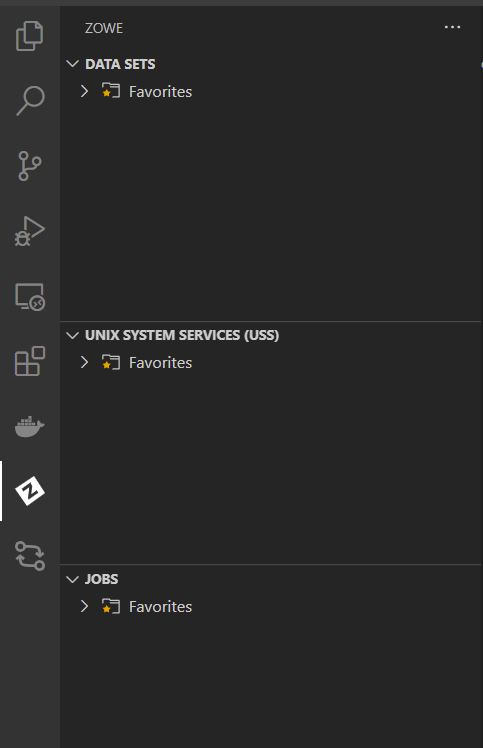
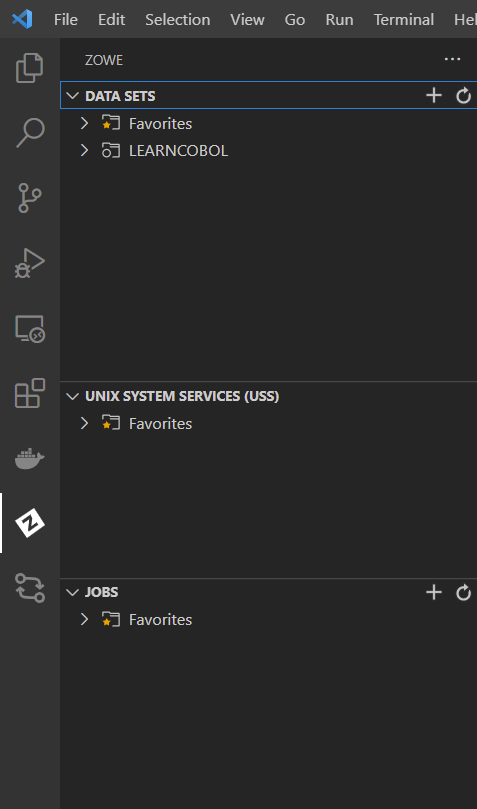
updating the create profile steps

diff --git a/COBOL Programming Course #1 - Getting Started/COBOL Programming Course #1 - Getting Started.md b/COBOL Programming Course #1 - Getting Started/COBOL Programming Course #1 - Getting Started.md
@@ -1485,21 +1485,22 @@ In this lab exercise you will connect to an IBM Z system, view a simple COBOL he
 
 
 
-13. Result is Favorites in the Data Sets, Unix System Services, and Jobs sections as shown in Figure  14.
+14. Your connection will be added automatically to the **DATASET** list under **Favorites** as shown in Figure  14.
 
-![](Images/image078.png)
+    ![](Images/image078.png)
 
-*Figure  14.  Favorites*
+*Figure  14.  LEARNCOBOL connection*
 
-14.  Again, click on the + to the far right on the Data Sets selection.  Result is another prompt to Create a New Connection to z/OS.  LearnCOBOL is in the connection list.  Select **LearnCOBOL** for the Data Sets available to the previously defined LearnCOBOL connection to z/OS as shown in Figure  15.
-
-![](Images/image080.png)
-
-*Figure  15.  LearnCOBOL connection*
+- Note : *if you click on the + to the far right on the Data Sets selection,  another prompt to Create a New Connection to z/OS will appear.*
+  - any other connections you have will be listed as shown in Figure  15.
+  
+  ![](Images/image080.png)
+  
+  *Figure  15.  connections list*
 
  
 
-15.  Expansion of LearnCOBOL reads “Use the search button to display datasets”.  Click the search button as shown in Figure  16.
+15. Expansion of LEARNCOBOL reads “Use the search button to display datasets”.  Click the search button as shown in Figure  16.
 
 ![](Images/image082.png)
 
@@ -1531,7 +1532,7 @@ In this lab exercise you will connect to an IBM Z system, view a simple COBOL he
 
  
 
-19.   A list of data set names beginning with your username from z/OS Connection LearnCOBOL appears as shown in Figure  20.
+19.   A list of data set names beginning with your username from z/OS Connection LEARNCOBOL appears as shown in Figure  20.
 
 ![](Images/image090.png)
 
@@ -1575,7 +1576,7 @@ In this lab exercise you will connect to an IBM Z system, view a simple COBOL he
 
 ![](Images/image100.png)
 
-*Figure  25.   +   Select LearnCOBOL connection*
+*Figure  25.   +   Select LEARNCOBOL connection*
 
  
 
@@ -1595,7 +1596,7 @@ In this lab exercise you will connect to an IBM Z system, view a simple COBOL he
 
  
 
-27.   View the COBOL program execution by selecting **COBRUN:SYSOUT(104)** from the LearnCOBOL in the Jobs section of Zowe Explorer as shown in Figure  28.
+27.   View the COBOL program execution by selecting **COBRUN:SYSOUT(104)** from the LEARNCOBOL in the Jobs section of Zowe Explorer as shown in Figure  28.
 
 ![](Images/image106.png)
 
@@ -1620,10 +1621,10 @@ In this section, we will use the Zowe CLI interactively to view data set members
 
 2. In order for Zowe CLI to interact with z/OSMF the CLI must know the connection details such as host, port, username, password, etc. While you could enter this information on each command, Zowe provides the ability to store this information in configurations commonly known as profiles. Zowe CLI and the Zowe VS Code Extension share profiles. So if you created a connection profile in the first lab, you could naturally leverage it here. 
 
-To create a LearnCOBOL profile (and overwrite it if it already exists), issue the following command with your system details (using `prompt*` will prompt you for certain fields and not show input):
+To create a LEARNCOBOL profile (and overwrite it if it already exists), issue the following command with your system details (using `prompt*` will prompt you for certain fields and not show input):
 
 ```
-zowe profiles create zosmf LearnCOBOL --host 192.86.32.250 --port 10443 --ru false --user prompt* --pass prompt* --ow 
+zowe profiles create zosmf LEARNCOBOL --host 192.86.32.250 --port 10443 --ru false --user prompt* --pass prompt* --ow 
 ```
 
 Many profiles can be created for interacting with different z/OSMF instances. If this was not your first profile, you will want to set it as the default for the following lab exercises. Issue the following command:
